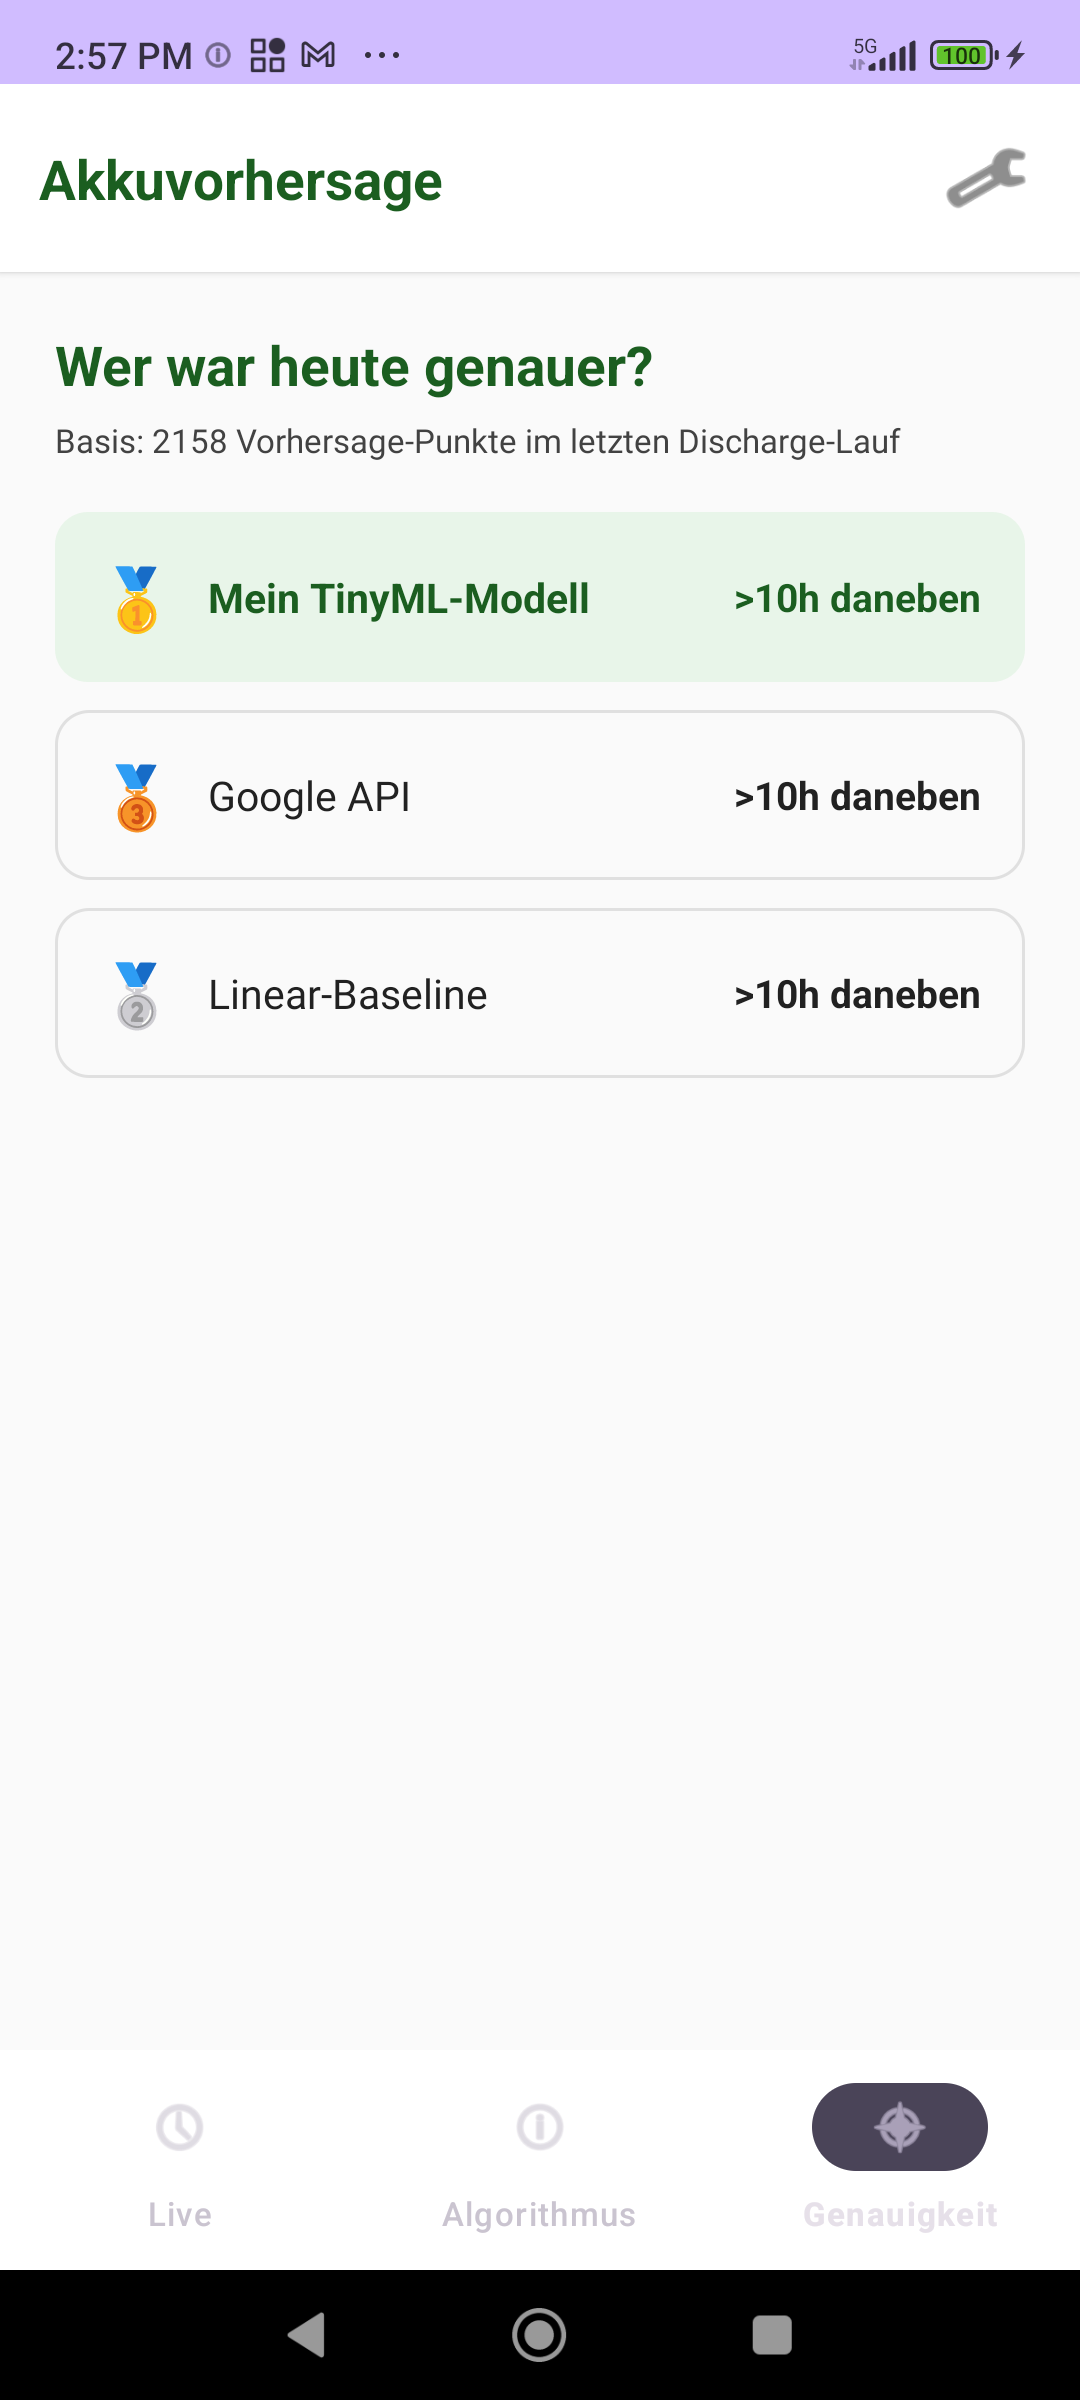
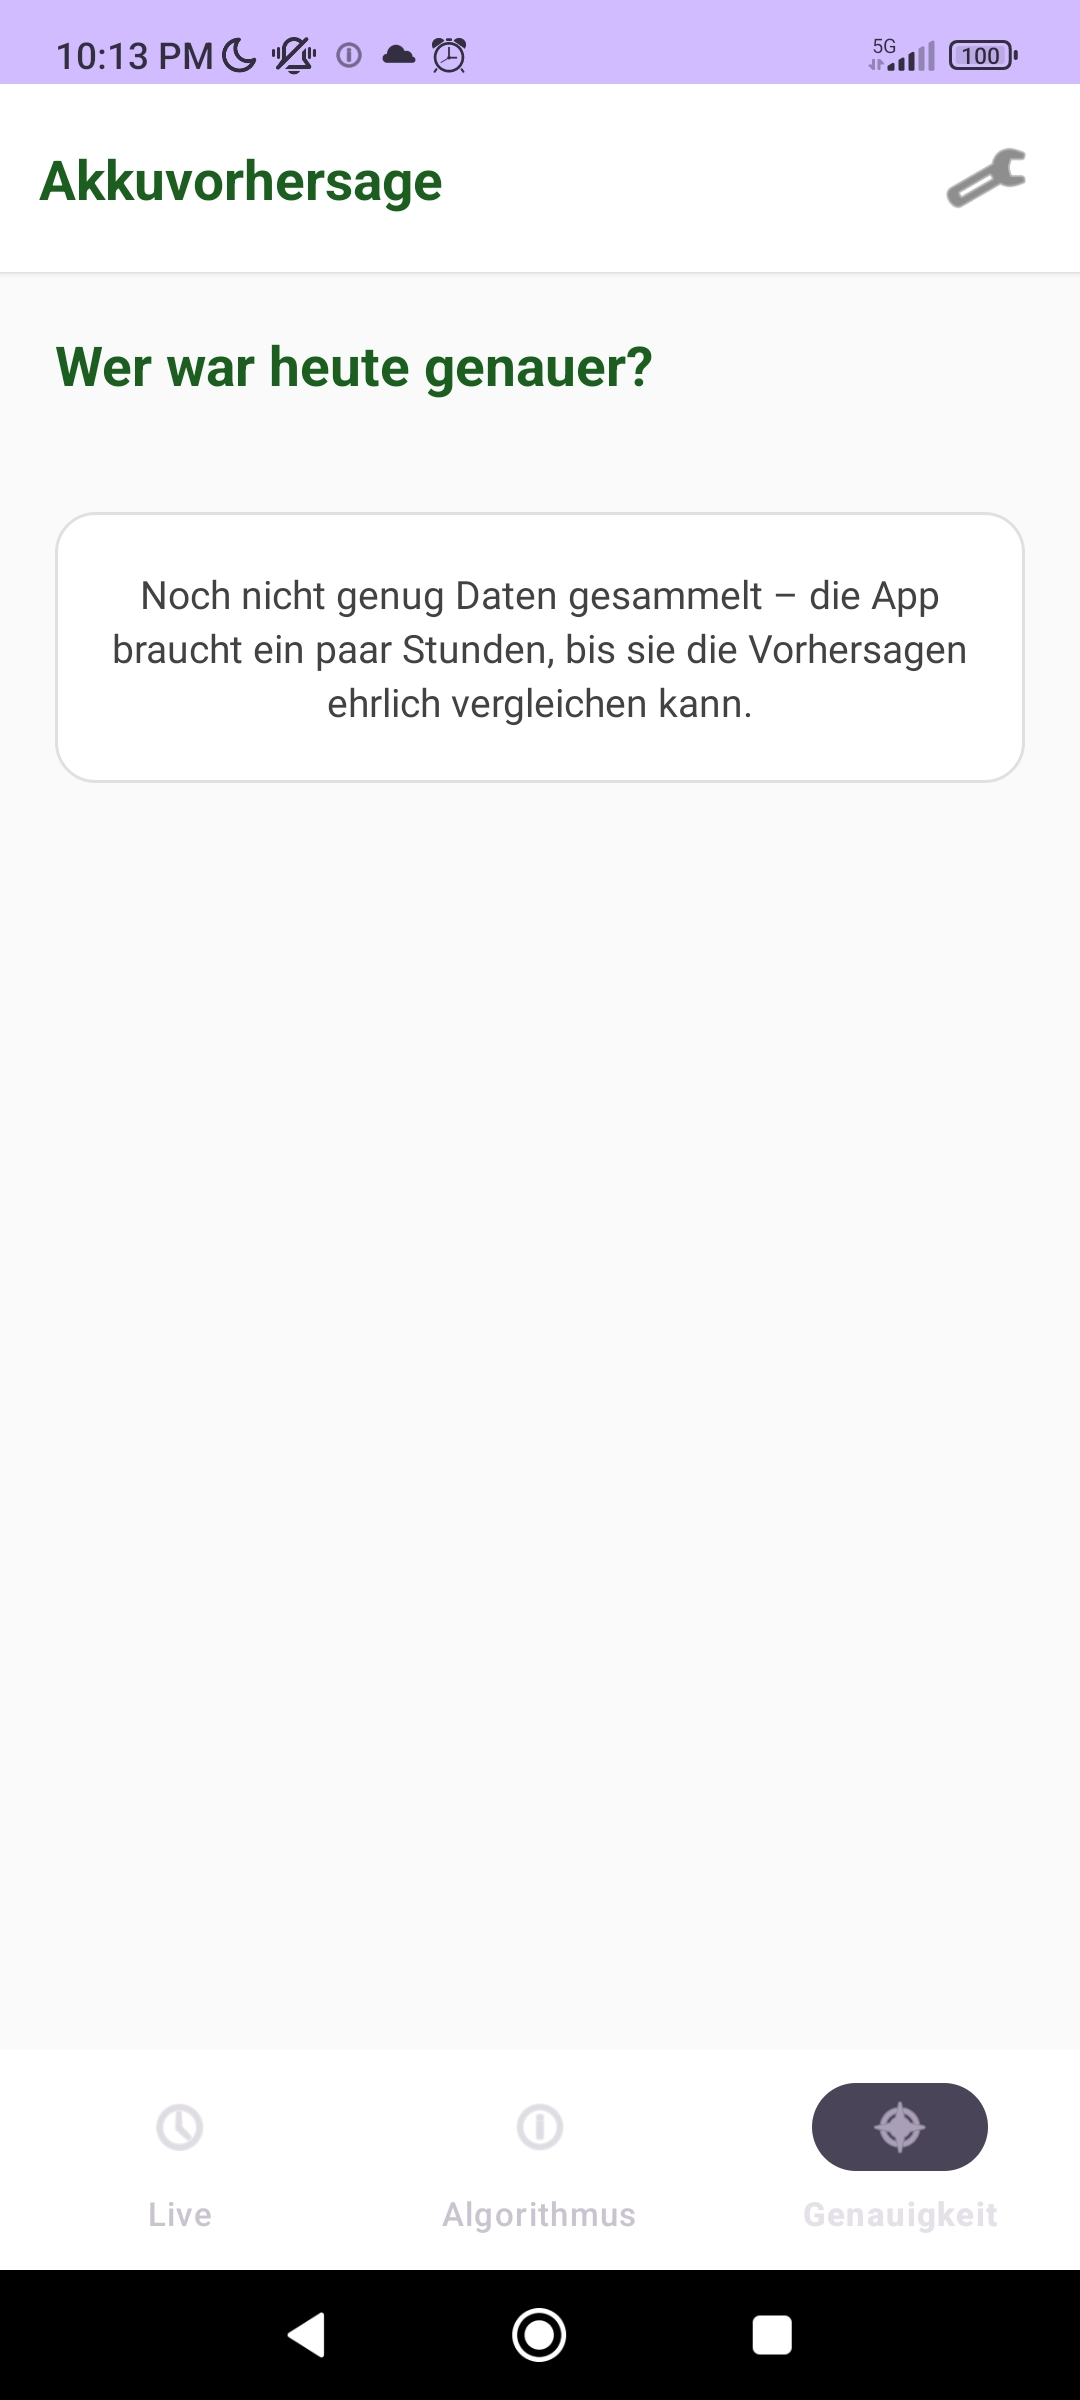
07_accuracy.png: replace stale '>10h daneben' shot with empty-state UI
The accuracy tab screenshot was still showing the old '>10h daneben'
hard-cap UI that we removed weeks ago. New screenshot shows the
current empty-state UI: 'Noch nicht genug Daten gesammelt - die App
braucht ein paar Stunden, bis sie die Vorhersagen ehrlich vergleichen
kann.' (taken at 100% battery, so no discharge cycle yet).

Caption tweaked to acknowledge that the picture shows the empty
state specifically, not the score view itself:
'... Hier im Empty-State, weil noch kein vollständiger Discharge-
Zyklus stattgefunden hat - die Anzeige erscheint, sobald genug
Daten gesammelt wurden.'

This completes the screenshot refresh: all relevant shots in the
Bedienungsanleitung now match the current app state.

diff --git a/portfolio/main.tex b/portfolio/main.tex
@@ -661,8 +661,9 @@ funktioniert. Drei eigene Custom-Canvas-Views, die alle live laufen.
 \includegraphics[width=0.55\linewidth]{07_accuracy.png}
 \caption{Genauigkeits-Tab: 3-Wege-Vergleich der drei Methoden
 (eigenes TinyML, Google API, Linear-Baseline) für den letzten
-beobachteten Discharge-Lauf. Die Anzeige erscheint, sobald genug
-Daten gesammelt wurden.}
+beobachteten Discharge-Lauf. Hier im Empty-State, weil noch kein
+vollständiger Discharge-Zyklus stattgefunden hat -- die Anzeige
+erscheint, sobald genug Daten gesammelt wurden.}
 \label{fig:screen_accuracy}
 \end{figure}
 